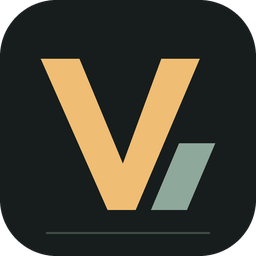
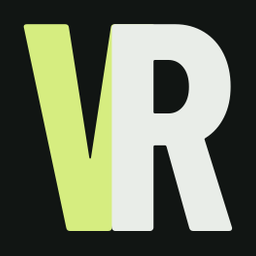
Match website branding and rename Overview to Play

diff --git a/src/vegas_reborn/ui/view.py b/src/vegas_reborn/ui/view.py
@@ -60,7 +60,7 @@ class ScrollPage(ttk.Frame):
 
 class CompanionView:
     PAGES=(
-        ("overview","Overview","home","Launch the game and view your settings."),
+        ("overview","Play","play","Launch the game and view your settings."),
         ("account","Account","account","Manage your account, player name and character data."),
         ("display","Display & game","display","Game location, screen mode and launch preferences."),
         ("connections","Connections","connections","Manage Discord activity sharing."),
@@ -106,7 +106,7 @@ class CompanionView:
         top=ttk.Frame(main,padding=(28,22,28,18))
         top.pack(fill="x")
         titles=ttk.Frame(top);titles.pack(side="left",fill="x",expand=True)
-        self.page_title=ttk.Label(titles,text="Overview",style="PageTitle.TLabel")
+        self.page_title=ttk.Label(titles,text="Play",style="PageTitle.TLabel")
         self.page_title.pack(anchor="w")
         self.page_hint=ttk.Label(titles,text=self.PAGES[0][3],style="Muted.TLabel")
         self.page_hint.pack(anchor="w",pady=(4,0))
@@ -144,7 +144,7 @@ class CompanionView:
     def button(self,parent,key,label,action,icon=None,style="Secondary.TButton",side="left"):
         kwargs={"text":label,"style":style,"command":action}
         if icon:
-            kwargs.update(image=(self.graphics.icon(icon,18,"#1b201b" if style=="Primary.TButton" else TEXT),
+            kwargs.update(image=(self.graphics.icon(icon,18,"#1b2417" if style=="Primary.TButton" else TEXT),
                                  "disabled",self.graphics.icon(icon,18,"#667369")),compound="left")
         button=ttk.Button(parent,**kwargs)
         button.pack(side=side,padx=(0,9))
@@ -262,7 +262,7 @@ class CompanionView:
         self.button(row,"host","Host server",self.actions["host"],"play","Primary.TButton")
         self.button(row,"stop_host","Stop server",self.actions["stop_host"],"stop","Danger.TButton")
         _,inner=self.panel(body,"Player and host identities","The companion uses separate player and host identities under the same account.")
-        self.button(inner,"host_overview","Back to overview",lambda:self.show_page("overview"),"arrow","Quiet.TButton")
+        self.button(inner,"host_overview","Back to Play",lambda:self.show_page("overview"),"arrow","Quiet.TButton")
 
     def _connections(self):
         _,inner=self.panel(self.pages["connections"].body,"Discord desktop","Activity sharing uses the same Discord application as the UE5 version.")
@@ -281,7 +281,7 @@ class CompanionView:
         self.button(row,"check_update","Check for updates",self.actions["check_updates"],"sync")
         self.button(row,"install_update","Update and restart",self.actions["update"],"arrow","Primary.TButton")
         ttk.Label(inner,text="Close the game before installing an update. Downloaded files are verified, and character data and settings are preserved.",style="PanelMuted.TLabel",wraplength=700).pack(anchor="w",pady=(22,16))
-        self.button(inner,"release_notes","View release notes",self.actions["release_notes"],"external","Quiet.TButton")
+        self.button(inner,"release_notes","View website changelog",self.actions["release_notes"],"external","Quiet.TButton")
 
     def show_page(self,key):
         if key not in self.pages:
@@ -391,7 +391,7 @@ class CompanionView:
             u.GetParent.argtypes=[w.HWND];u.GetParent.restype=w.HWND
             dwm.DwmSetWindowAttribute.argtypes=[w.HWND,w.DWORD,c.c_void_p,w.DWORD]
             hwnd=u.GetParent(self.root.winfo_id())
-            for attribute,value in ((20,1),(35,0x00151611),(36,0x00e8f0f1)):
+            for attribute,value in ((20,1),(35,0x00131511),(36,0x00e8ede9)):
                 number=w.DWORD(value)
                 dwm.DwmSetWindowAttribute(hwnd,attribute,c.byref(number),c.sizeof(number))
         except (AttributeError,OSError):

diff --git a/src/vegas_reborn/ui/theme.py b/src/vegas_reborn/ui/theme.py
@@ -3,13 +3,13 @@ import tkinter as tk
 from tkinter import ttk
 from PIL import Image, ImageDraw, ImageTk
 
-BG = "#111615"
-SIDEBAR = "#151b19"
-PANEL = "#1b2220"
-LINE = "#303a35"
-TEXT = "#f1f0e8"
-MUTED = "#a4b0a7"
-ACCENT = "#efbd73"
+BG = "#111513"
+SIDEBAR = "#161b18"
+PANEL = "#191e1b"
+LINE = "#303832"
+TEXT = "#e9ede8"
+MUTED = "#9ca79f"
+ACCENT = "#d6ed80"
 GREEN = "#8ebda5"
 
 
@@ -44,7 +44,7 @@ def apply_theme(root, graphics):
         references.append(photo)
         return photo
     for name,normal,hover,pressed,fg,outline in (
-        ("Primary",ACCENT,"#ffcf89","#dba55d","#1b201b",None),
+        ("Primary",ACCENT,"#e8ffa0","#bfd68f","#1b2417",None),
         ("Secondary","#263029","#333f36","#1c251f",TEXT,LINE),
         ("Quiet",PANEL,"#29342d","#202922",MUTED,None),
         ("Nav",SIDEBAR,"#202b24","#26342a",MUTED,None),
@@ -70,12 +70,12 @@ def apply_theme(root, graphics):
     for name in ("Nav","SelectedNav"):
         style.configure(name+".TButton",anchor="w",padding=(14,12),font=("Segoe UI",10))
     style.configure("Primary.TButton",padding=(24,13),font=("Segoe UI",11,"bold"))
-    style.configure("TEntry",fieldbackground="#111713",foreground=TEXT,insertcolor=TEXT,padding=11,
+    style.configure("TEntry",fieldbackground="#111513",foreground=TEXT,insertcolor=TEXT,padding=11,
                     bordercolor=LINE,lightcolor=LINE,darkcolor=LINE)
     style.map("TEntry",bordercolor=[("focus",ACCENT)],lightcolor=[("focus",ACCENT)],darkcolor=[("focus",ACCENT)])
-    style.configure("TCombobox",fieldbackground="#111713",background="#29352c",foreground=TEXT,padding=10,
+    style.configure("TCombobox",fieldbackground="#111513",background="#29352c",foreground=TEXT,padding=10,
                     bordercolor=LINE,arrowcolor=MUTED,lightcolor=LINE,darkcolor=LINE)
-    style.map("TCombobox",fieldbackground=[("readonly","#111713"),("disabled","#202822")],
+    style.map("TCombobox",fieldbackground=[("readonly","#111513"),("disabled","#202822")],
               foreground=[("disabled","#667369"),("readonly",TEXT)])
     switches=[]
     for on in (False,True):

diff --git a/src/vegas_reborn/application.py b/src/vegas_reborn/application.py
@@ -20,7 +20,7 @@ from .retail_rank import RankSourceError, read_rank
 from .retail_sync import SyncConflict
 from .ui.view import CompanionView, UiValues
 from .updater import UpdateError, check_latest, record_check, prepare_update, launch_helper
-from .version import VERSION, REPOSITORY
+from .version import VERSION
 
 ROOT = Path(sys.executable).resolve().parent if getattr(sys,"frozen",False) else Path(__file__).resolve().parents[2]
 
@@ -65,7 +65,7 @@ class CompanionController:
                  "check_updates":self.check_updates,"update":self.update_and_restart,
                  "cloud":lambda:self.resolve(True),"local":lambda:self.resolve(False),
                  "get_discord":lambda:webbrowser.open("https://discord.com/download"),
-                 "release_notes":lambda:webbrowser.open("https://github.com/"+REPOSITORY+"/releases")}
+                 "release_notes":lambda:webbrowser.open("https://vegas.lumbridge.co.uk/changelog.html")}
         self.view=CompanionView(root,self.values,actions)
         try:
             self.launcher=RetailLauncher(args.config,notify=self.notify)

diff --git a/src/vegas_reborn/ui/graphics.py b/src/vegas_reborn/ui/graphics.py
@@ -7,16 +7,10 @@ ASSETS = Path(__file__).resolve().parent / "assets"
 
 
 def mark_image(size=256):
-    scale = 4
-    image = Image.new("RGBA", (size*scale, size*scale))
-    draw = ImageDraw.Draw(image)
-    def points(values):
-        return [(x*size*scale/100, y*size*scale/100) for x, y in values]
-    draw.rounded_rectangle((0, 0, size*scale-1, size*scale-1), radius=size*scale*.22, fill="#171d1c")
-    draw.polygon(points([(16,23),(31,23),(48,64),(63,23),(78,23),(53,82),(42,82)]), fill="#efbd73")
-    draw.polygon(points([(70,56),(84,56),(73,82),(59,82)]), fill="#8ea89b")
-    draw.line(points([(18,91),(82,91)]), fill="#414c46", width=max(1, size*scale//120))
-    return image.resize((size,size), Image.Resampling.LANCZOS)
+    # The same VR monogram used by the website, packaged for offline use.
+    with Image.open(ASSETS / "vegas-reborn.png") as source:
+        return source.convert("RGBA").resize((size, size), Image.Resampling.LANCZOS)
+
 
 
 def icon_image(name, size=20, color="#b6c0b9"):

diff --git a/tests/test_update_ui.py b/tests/test_update_ui.py
@@ -7,6 +7,12 @@ from test_companion_claim_ui import ControllerFixture
 from vegas_reborn import application as app
 
 class UpdateUiTests(ControllerFixture):
+    def test_release_notes_opens_website_changelog(self):
+        controller=self.create()
+        with patch.object(app.webbrowser,"open") as open_browser:
+            controller.view.widgets["release_notes"].invoke()
+            open_browser.assert_called_once_with("https://vegas.lumbridge.co.uk/changelog.html")
+
     def test_check_download_verify_handoff_without_touching_a_real_install(self):
         controller=self.create()
         release=SimpleNamespace(version="0.4.1")
